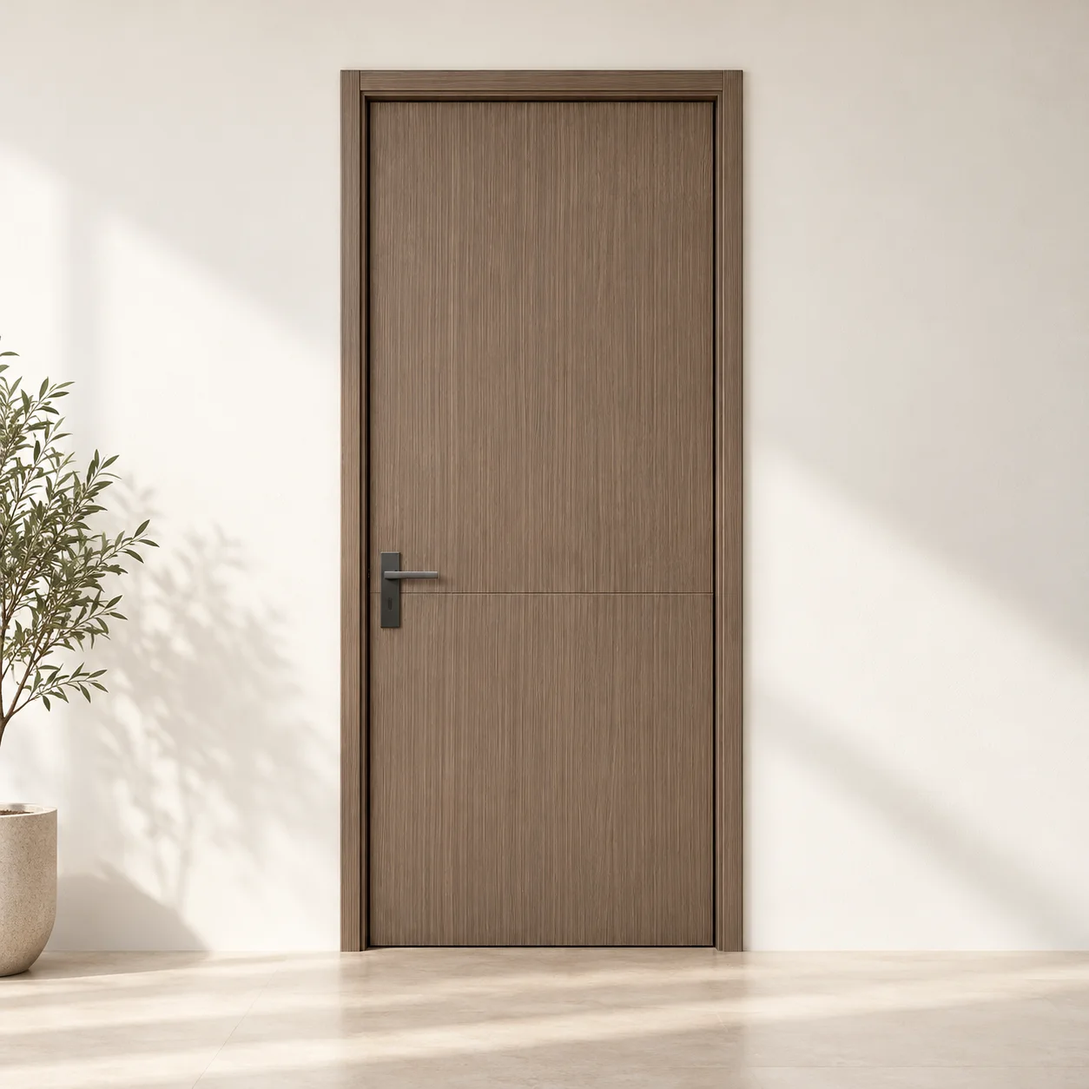
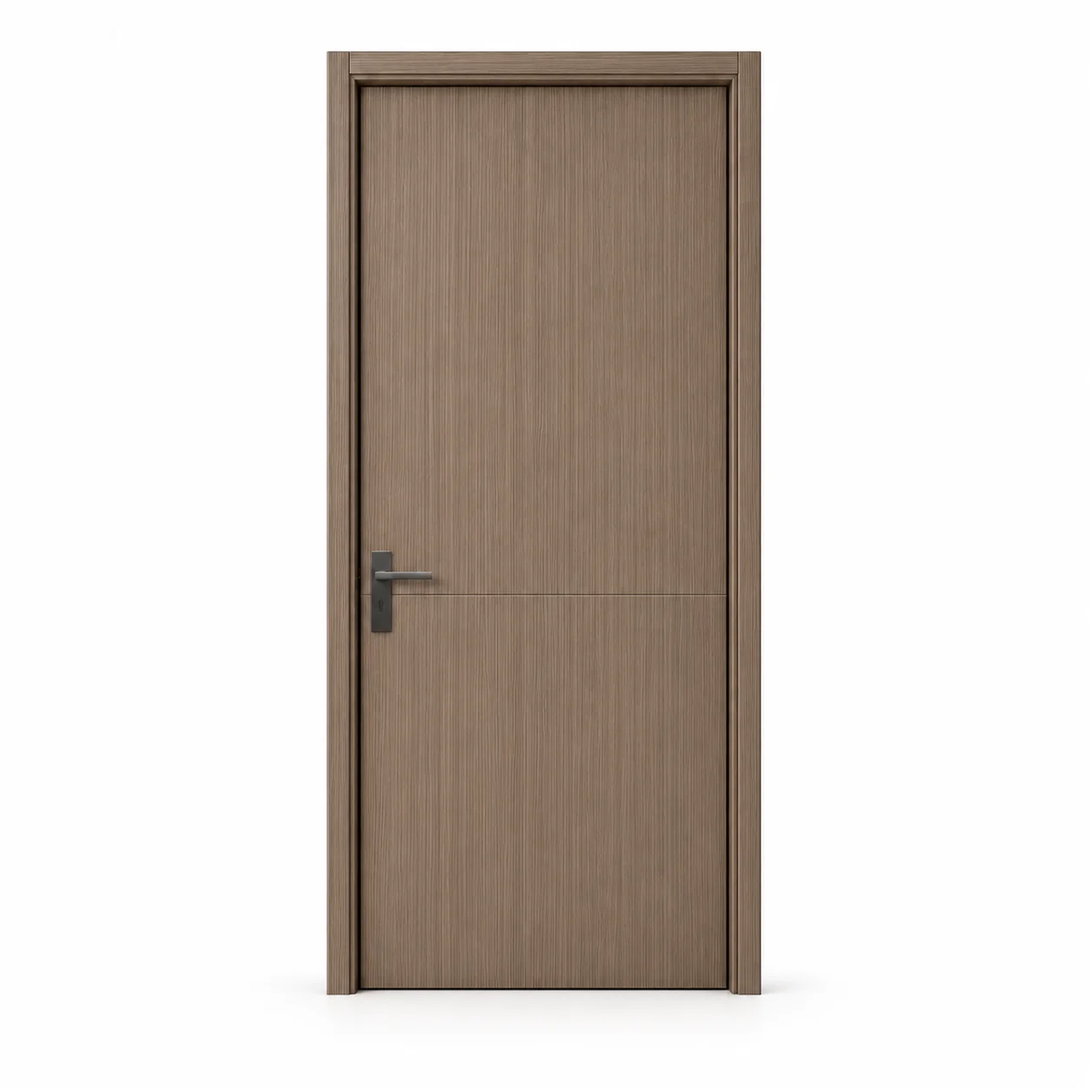
Show distinct full-door views without cropping WPC thumbnails (#124)

diff --git a/products/wpc-doors/taupe-woodgrain-wpc-interior-door.html b/products/wpc-doors/taupe-woodgrain-wpc-interior-door.html
@@ -1,10 +1,10 @@
 <!doctype html>
-<html lang="en"><head><meta charset="utf-8"><meta name="viewport" content="width=device-width,initial-scale=1"><title>Taupe Woodgrain WPC Door for Modern Residential and Hotel Interiors</title><meta name="description" content="Explore a taupe woodgrain WPC door with a plain flush face. US$45–98 per set including frame, FOB Tianjin, China. Request a project quotation from VISFURN."><meta name="robots" content="index,follow,max-image-preview:large"><link rel="canonical" href="https://www.visfurn.com/products/wpc-doors/taupe-woodgrain-wpc-interior-door"><meta property="og:type" content="product"><meta property="og:site_name" content="VISFURN"><meta property="og:title" content="Taupe Woodgrain WPC Door for Modern Residential and Hotel Interiors"><meta property="og:description" content="Explore a taupe woodgrain WPC door with a plain flush face. US$45–98 per set including frame, FOB Tianjin, China. Request a project quotation from VISFURN."><meta property="og:url" content="https://www.visfurn.com/products/wpc-doors/taupe-woodgrain-wpc-interior-door"><meta property="og:image" content="https://www.visfurn.com/assets/images/products/wpc-doors/taupe-woodgrain/main-01.webp"><meta name="twitter:card" content="summary_large_image"><link rel="icon" href="/assets/brand/favicon-door-v2-64.png"><style>*{box-sizing:border-box}html{scroll-behavior:smooth;scroll-padding-top:24px}body{margin:0;color:#28382f;background:#fff;font:16px/1.65 Arial,sans-serif}a{color:inherit}button{font:inherit}img{display:block;max-width:100%}.wrap{width:min(1240px,calc(100% - 64px));margin:auto}.trust{background:#263d30;color:#fff;text-align:center;padding:7px 16px;font-size:12px;letter-spacing:.05em}.header{border-bottom:1px solid #dce0da}.header .wrap{display:flex;align-items:center;justify-content:space-between;gap:24px;min-height:94px}.logo{width:106px;height:auto}.header nav{display:flex;gap:28px;font-size:14px}.header nav a{text-decoration:none}.btn{display:inline-flex;justify-content:center;align-items:center;min-height:48px;padding:12px 24px;background:#2c4936;border:1px solid #2c4936;color:white;text-decoration:none;font-size:14px;font-weight:700;border-radius:4px}.btn.secondary{color:#2c4936;background:white}.crumb{font-size:12px;color:#657267;padding:25px 0}.hero{display:grid;grid-template-columns:1.06fr 1fr;gap:56px;align-items:start;padding:12px 0 64px}.stage{border-radius:8px;background:#eeece7;overflow:hidden;aspect-ratio:4/5}.stage img{width:100%;height:100%;object-fit:contain}.thumbs{display:flex;gap:12px;margin-top:14px}.thumb{width:82px;height:84px;padding:4px;background:#fff;border:1px solid #dce0da;border-radius:4px;cursor:pointer}.thumb[aria-pressed=true]{border:2px solid #2c4936}.thumb img{width:100%;height:100%;object-fit:cover}.caption{font-size:12px;color:#697269;line-height:1.5}.eyebrow{font-size:11px;color:#906749;text-transform:uppercase;letter-spacing:.14em;font-weight:700;margin:0 0 10px}h1,h2{font-family:Georgia,serif;font-weight:400;line-height:1.12;letter-spacing:-.025em}h1{font-size:clamp(34px,3.4vw,48px);margin:0 0 20px}h2{font-size:clamp(28px,3vw,40px);margin:0 0 20px}h3{font-size:18px;line-height:1.4;margin:0 0 12px}.lede{font-size:17px;color:#657267}.tags{display:flex;gap:8px;flex-wrap:wrap;margin:22px 0}.tags span{font-size:12px;padding:5px 10px;border-radius:30px;border:1px solid #dce0da}.summary{background:#f5f5ef;padding:20px;border-left:3px solid #a98c68;font-size:14px}.summary p{margin:8px 0 0}.actions{display:flex;flex-wrap:wrap;gap:12px;margin:22px 0}.facts{padding-left:18px;font-size:14px;color:#657267}.jump{display:flex;gap:24px;flex-wrap:wrap;border-block:1px solid #dce0da;padding:16px 0;font-size:13px}.jump a{text-decoration:none}.section{padding:64px 0;border-bottom:1px solid #dce0da}.intro{max-width:850px;color:#657267}.cards{display:grid;grid-template-columns:repeat(3,1fr);gap:20px;margin-top:28px}.card{padding:24px;background:#f5f5ef;border:1px solid #e2e4db;border-radius:5px}.card p{font-size:14px;color:#657267;margin-bottom:0}.specs{display:grid;grid-template-columns:1fr 1fr;gap:0 36px}.specs div{display:grid;grid-template-columns:120px 1fr;gap:14px;padding:17px 0;border-bottom:1px solid #dce0da;font-size:14px}.specs dt{font-weight:700}.specs dd{margin:0;color:#657267}.split{display:grid;grid-template-columns:1fr 1fr;gap:38px;align-items:center}.split img{border-radius:6px;width:100%;height:auto}.split p,.split li{color:#657267}.split+.split{margin-top:46px}.note{padding:16px 20px;background:#f5f5ef;color:#657267;font-size:13px;margin-top:24px}.faq details{padding:18px 0;border-bottom:1px solid #dce0da}.faq summary{cursor:pointer;font-weight:700}.faq details p{max-width:900px;color:#657267;font-size:15px}.quote-panel{margin:56px 0;background:#263d30;color:#fff;padding:36px;border-radius:6px}.quote-panel p{max-width:850px;color:#e3e8e0}.quote-panel .btn{background:#fff;color:#263d30;border-color:#fff}.quote-panel .secondary{background:transparent;color:#fff}.related{display:flex;gap:22px;flex-wrap:wrap;font-size:14px;padding-bottom:50px}.footer{background:#f5f5ef;padding:30px 0;font-size:13px;color:#657267}.footer .wrap{display:flex;gap:20px;justify-content:space-between;flex-wrap:wrap}a:focus-visible,button:focus-visible,summary:focus-visible{outline:3px solid #b78348;outline-offset:4px}@media(max-width:900px){.wrap{width:calc(100% - 36px)}.hero{gap:28px}.header nav{gap:16px}.cards{gap:12px}.card{padding:18px}}@media(max-width:700px){.header .wrap{min-height:76px;gap:12px}.logo{width:84px}.header nav{display:none}.header .btn{padding:10px 14px;min-height:44px}.hero{grid-template-columns:1fr;gap:26px;padding-bottom:36px}.stage{max-height:520px;aspect-ratio:4/5}.gallery{max-width:420px;width:100%;margin:auto}h1{font-size:36px}.section{padding:40px 0}.cards,.specs,.split{grid-template-columns:1fr}.split{gap:22px}.quote-panel{padding:24px;margin:36px 0}.jump{gap:18px}.trust{font-size:10px}.btn{min-height:46px}.specs div{grid-template-columns:102px 1fr}.related{gap:16px}.caption{font-size:12px}}@media(prefers-reduced-motion:reduce){html{scroll-behavior:auto}}
-.price{font-size:30px;line-height:1.25;margin:8px 0;color:#28382f}.price small{font-size:15px;font-weight:400}.thumbs{display:grid;grid-template-columns:repeat(4,1fr)}.thumb{width:100%;height:90px}.stage{aspect-ratio:1/1}.stage img{object-fit:contain}.caption{min-height:18px}.detail-media{aspect-ratio:4/3;object-fit:cover}.related-grid{display:grid;grid-template-columns:repeat(3,1fr);gap:20px}.related-grid a{display:block;font-weight:bold;margin-top:12px}@media(max-width:700px){.stage{aspect-ratio:1/1}.related-grid{grid-template-columns:1fr}.thumb{height:76px}.price{font-size:28px}}</style><script type="application/ld+json">{"@context": "https://schema.org", "@type": "Product", "@id": "https://www.visfurn.com/products/wpc-doors/taupe-woodgrain-wpc-interior-door#product", "name": "Taupe Woodgrain WPC Door for Modern Residential and Hotel Interiors", "description": "Explore a taupe woodgrain WPC door with a plain flush face. US$45–98 per set including frame, FOB Tianjin, China. Request a project quotation from VISFURN.", "url": "https://www.visfurn.com/products/wpc-doors/taupe-woodgrain-wpc-interior-door", "brand": {"@type": "Brand", "name": "VISFURN"}, "manufacturer": {"@type": "Organization", "name": "Tianjin Visfurn Furniture Co., Ltd."}, "category": "WPC interior doors", "material": "Wood-plastic composite (WPC)", "image": ["https://www.visfurn.com/assets/images/products/wpc-doors/taupe-woodgrain/main-01.webp", "https://www.visfurn.com/assets/images/products/wpc-doors/taupe-woodgrain/main-02.webp", "https://www.visfurn.com/assets/images/products/wpc-doors/taupe-woodgrain/main-03.webp", "https://www.visfurn.com/assets/images/products/wpc-doors/taupe-woodgrain/main-04.webp"], "additionalProperty": [{"@type": "PropertyValue", "name": "Finish direction", "value": "Taupe woodgrain, fine vertical grain, plain flush face"}, {"@type": "PropertyValue", "name": "Reference price and scope", "value": "US$45–98 per set including frame; FOB Tianjin Port, China. Final configuration and hardware scope confirmed in quotation."}]}</script>
+<html lang="en"><head><meta charset="utf-8"><meta name="viewport" content="width=device-width,initial-scale=1"><title>Taupe Woodgrain WPC Door for Modern Residential and Hotel Interiors</title><meta name="description" content="Explore a taupe woodgrain WPC door with a plain flush face. US$45–98 per set including frame, FOB Tianjin, China. Request a project quotation from VISFURN."><meta name="robots" content="index,follow,max-image-preview:large"><link rel="canonical" href="https://www.visfurn.com/products/wpc-doors/taupe-woodgrain-wpc-interior-door"><meta property="og:type" content="product"><meta property="og:site_name" content="VISFURN"><meta property="og:title" content="Taupe Woodgrain WPC Door for Modern Residential and Hotel Interiors"><meta property="og:description" content="Explore a taupe woodgrain WPC door with a plain flush face. US$45–98 per set including frame, FOB Tianjin, China. Request a project quotation from VISFURN."><meta property="og:url" content="https://www.visfurn.com/products/wpc-doors/taupe-woodgrain-wpc-interior-door"><meta property="og:image" content="https://www.visfurn.com/assets/images/products/wpc-doors/taupe-woodgrain/main-01.webp"><meta name="twitter:card" content="summary_large_image"><link rel="icon" href="/assets/brand/favicon-door-v2-64.png"><style>*{box-sizing:border-box}html{scroll-behavior:smooth;scroll-padding-top:24px}body{margin:0;color:#28382f;background:#fff;font:16px/1.65 Arial,sans-serif}a{color:inherit}button{font:inherit}img{display:block;max-width:100%}.wrap{width:min(1240px,calc(100% - 64px));margin:auto}.trust{background:#263d30;color:#fff;text-align:center;padding:7px 16px;font-size:12px;letter-spacing:.05em}.header{border-bottom:1px solid #dce0da}.header .wrap{display:flex;align-items:center;justify-content:space-between;gap:24px;min-height:94px}.logo{width:106px;height:auto}.header nav{display:flex;gap:28px;font-size:14px}.header nav a{text-decoration:none}.btn{display:inline-flex;justify-content:center;align-items:center;min-height:48px;padding:12px 24px;background:#2c4936;border:1px solid #2c4936;color:white;text-decoration:none;font-size:14px;font-weight:700;border-radius:4px}.btn.secondary{color:#2c4936;background:white}.crumb{font-size:12px;color:#657267;padding:25px 0}.hero{display:grid;grid-template-columns:1.06fr 1fr;gap:56px;align-items:start;padding:12px 0 64px}.stage{border-radius:8px;background:#eeece7;overflow:hidden;aspect-ratio:4/5}.stage img{width:100%;height:100%;object-fit:contain}.thumbs{display:flex;gap:12px;margin-top:14px}.thumb{width:82px;height:84px;padding:4px;background:#fff;border:1px solid #dce0da;border-radius:4px;cursor:pointer}.thumb[aria-pressed=true]{border:2px solid #2c4936}.thumb img{width:100%;height:100%;object-fit:contain}.caption{font-size:12px;color:#697269;line-height:1.5}.eyebrow{font-size:11px;color:#906749;text-transform:uppercase;letter-spacing:.14em;font-weight:700;margin:0 0 10px}h1,h2{font-family:Georgia,serif;font-weight:400;line-height:1.12;letter-spacing:-.025em}h1{font-size:clamp(34px,3.4vw,48px);margin:0 0 20px}h2{font-size:clamp(28px,3vw,40px);margin:0 0 20px}h3{font-size:18px;line-height:1.4;margin:0 0 12px}.lede{font-size:17px;color:#657267}.tags{display:flex;gap:8px;flex-wrap:wrap;margin:22px 0}.tags span{font-size:12px;padding:5px 10px;border-radius:30px;border:1px solid #dce0da}.summary{background:#f5f5ef;padding:20px;border-left:3px solid #a98c68;font-size:14px}.summary p{margin:8px 0 0}.actions{display:flex;flex-wrap:wrap;gap:12px;margin:22px 0}.facts{padding-left:18px;font-size:14px;color:#657267}.jump{display:flex;gap:24px;flex-wrap:wrap;border-block:1px solid #dce0da;padding:16px 0;font-size:13px}.jump a{text-decoration:none}.section{padding:64px 0;border-bottom:1px solid #dce0da}.intro{max-width:850px;color:#657267}.cards{display:grid;grid-template-columns:repeat(3,1fr);gap:20px;margin-top:28px}.card{padding:24px;background:#f5f5ef;border:1px solid #e2e4db;border-radius:5px}.card p{font-size:14px;color:#657267;margin-bottom:0}.specs{display:grid;grid-template-columns:1fr 1fr;gap:0 36px}.specs div{display:grid;grid-template-columns:120px 1fr;gap:14px;padding:17px 0;border-bottom:1px solid #dce0da;font-size:14px}.specs dt{font-weight:700}.specs dd{margin:0;color:#657267}.split{display:grid;grid-template-columns:1fr 1fr;gap:38px;align-items:center}.split img{border-radius:6px;width:100%;height:auto}.split p,.split li{color:#657267}.split+.split{margin-top:46px}.note{padding:16px 20px;background:#f5f5ef;color:#657267;font-size:13px;margin-top:24px}.faq details{padding:18px 0;border-bottom:1px solid #dce0da}.faq summary{cursor:pointer;font-weight:700}.faq details p{max-width:900px;color:#657267;font-size:15px}.quote-panel{margin:56px 0;background:#263d30;color:#fff;padding:36px;border-radius:6px}.quote-panel p{max-width:850px;color:#e3e8e0}.quote-panel .btn{background:#fff;color:#263d30;border-color:#fff}.quote-panel .secondary{background:transparent;color:#fff}.related{display:flex;gap:22px;flex-wrap:wrap;font-size:14px;padding-bottom:50px}.footer{background:#f5f5ef;padding:30px 0;font-size:13px;color:#657267}.footer .wrap{display:flex;gap:20px;justify-content:space-between;flex-wrap:wrap}a:focus-visible,button:focus-visible,summary:focus-visible{outline:3px solid #b78348;outline-offset:4px}@media(max-width:900px){.wrap{width:calc(100% - 36px)}.hero{gap:28px}.header nav{gap:16px}.cards{gap:12px}.card{padding:18px}}@media(max-width:700px){.header .wrap{min-height:76px;gap:12px}.logo{width:84px}.header nav{display:none}.header .btn{padding:10px 14px;min-height:44px}.hero{grid-template-columns:1fr;gap:26px;padding-bottom:36px}.stage{max-height:520px;aspect-ratio:4/5}.gallery{max-width:420px;width:100%;margin:auto}h1{font-size:36px}.section{padding:40px 0}.cards,.specs,.split{grid-template-columns:1fr}.split{gap:22px}.quote-panel{padding:24px;margin:36px 0}.jump{gap:18px}.trust{font-size:10px}.btn{min-height:46px}.specs div{grid-template-columns:102px 1fr}.related{gap:16px}.caption{font-size:12px}}@media(prefers-reduced-motion:reduce){html{scroll-behavior:auto}}
+.price{font-size:30px;line-height:1.25;margin:8px 0;color:#28382f}.price small{font-size:15px;font-weight:400}.thumbs{display:grid;grid-template-columns:repeat(4,1fr)}.thumb{width:100%;height:auto;aspect-ratio:1/1;padding:5px;background:#f4f2ed;overflow:hidden}.stage{aspect-ratio:1/1}.stage img{object-fit:contain}.caption{min-height:18px}.detail-media{aspect-ratio:4/3;object-fit:cover}.related-grid{display:grid;grid-template-columns:repeat(3,1fr);gap:20px}.related-grid a{display:block;font-weight:bold;margin-top:12px}@media(max-width:700px){.stage{aspect-ratio:1/1}.related-grid{grid-template-columns:1fr}.thumb{height:auto;min-width:0;padding:3px}.price{font-size:28px}}</style><script type="application/ld+json">{"@context": "https://schema.org", "@type": "Product", "@id": "https://www.visfurn.com/products/wpc-doors/taupe-woodgrain-wpc-interior-door#product", "name": "Taupe Woodgrain WPC Door for Modern Residential and Hotel Interiors", "description": "Explore a taupe woodgrain WPC door with a plain flush face. US$45–98 per set including frame, FOB Tianjin, China. Request a project quotation from VISFURN.", "url": "https://www.visfurn.com/products/wpc-doors/taupe-woodgrain-wpc-interior-door", "brand": {"@type": "Brand", "name": "VISFURN"}, "manufacturer": {"@type": "Organization", "name": "Tianjin Visfurn Furniture Co., Ltd."}, "category": "WPC interior doors", "material": "Wood-plastic composite (WPC)", "image": ["https://www.visfurn.com/assets/images/products/wpc-doors/taupe-woodgrain/main-01.webp", "https://www.visfurn.com/assets/images/products/wpc-doors/taupe-woodgrain/main-02.webp", "https://www.visfurn.com/assets/images/products/wpc-doors/taupe-woodgrain/main-03.webp", "https://www.visfurn.com/assets/images/products/wpc-doors/taupe-woodgrain/main-04.webp"], "additionalProperty": [{"@type": "PropertyValue", "name": "Finish direction", "value": "Taupe woodgrain, fine vertical grain, plain flush face"}, {"@type": "PropertyValue", "name": "Reference price and scope", "value": "US$45–98 per set including frame; FOB Tianjin Port, China. Final configuration and hardware scope confirmed in quotation."}]}</script>
 <script type="application/ld+json">{"@context": "https://schema.org", "@type": "BreadcrumbList", "itemListElement": [{"@type": "ListItem", "position": 1, "name": "Home", "item": "https://www.visfurn.com/"}, {"@type": "ListItem", "position": 2, "name": "WPC Doors", "item": "https://www.visfurn.com/products/wpc-doors"}, {"@type": "ListItem", "position": 3, "name": "Taupe Woodgrain WPC Door", "item": "https://www.visfurn.com/products/wpc-doors/taupe-woodgrain-wpc-interior-door"}]}</script>
 <script type="application/ld+json">{"@context": "https://schema.org", "@type": "FAQPage", "mainEntity": [{"@type": "Question", "name": "What is included in the US$45–98 price range?", "acceptedAnswer": {"@type": "Answer", "text": "The reference price is US$45–98 per set including the door frame, FOB Tianjin Port, China. Final price depends on the agreed configuration and quantity. Confirm the exact frame profile, trim, hardware and packing in the written quotation; hardware inclusion is not assumed."}}, {"@type": "Question", "name": "How is this different from the other WPC door designs?", "acceptedAnswer": {"@type": "Answer", "text": "This finish-led option pairs a taupe woodgrain colour with fine vertical grain and a plain flush face. It is part of the WPC interior door range. The visual direction does not establish a different core construction or performance rating."}}, {"@type": "Question", "name": "Can I order the door in a specific size?", "acceptedAnswer": {"@type": "Answer", "text": "Send the door schedule with leaf or opening dimensions clearly identified, finished wall thickness, handing and quantity. VISFURN will confirm feasible dimensions, frame profiles and machining before the sample and order are approved."}}, {"@type": "Question", "name": "Can this door be used in a bathroom or humid room?", "acceptedAnswer": {"@type": "Answer", "text": "Ask for a room-specific suitability review. Describe humidity, splash exposure and cleaning conditions, and confirm the leaf, frame, edge treatment and threshold together. This page does not claim a tested waterproof rating."}}, {"@type": "Question", "name": "Is it suitable for a fire-rated hotel opening?", "acceptedAnswer": {"@type": "Answer", "text": "No fire or acoustic rating is stated for this design. If an opening requires tested performance, provide the standard and rating so a documented assembly can be reviewed separately."}}, {"@type": "Question", "name": "Are these photographs of a delivered project?", "acceptedAnswer": {"@type": "Answer", "text": "The images are AI-generated design illustrations of the proposed taupe finish direction, not factory photographs, test evidence or completed-project records. Approve the physical finish sample, drawings and supplied components before production."}}]}</script><script>(function(w,d,s,l,i){w[l]=w[l]||[];w[l].push({'gtm.start':new Date().getTime(),event:'gtm.js'});var f=d.getElementsByTagName(s)[0],j=d.createElement(s),dl=l!='dataLayer'?'&l='+l:'';j.async=true;j.src='https://www.googletagmanager.com/gtm.js?id='+i+dl;f.parentNode.insertBefore(j,f);})(window,document,'script','dataLayer','GTM-PD963ZR7');</script></head><body data-product-source-context><div class="trust">VISFURN · Interior door packages for contractors, distributors &amp; project buyers</div><header class="header"><div class="wrap"><a href="/" aria-label="VISFURN home"><img class="logo" src="/assets/brand/visfurn-logo-door-v2-360.webp" width="106" height="79" alt="VISFURN"></a><nav aria-label="Main navigation"><a href="/products">Products</a><a href="/products/wpc-doors">WPC Doors</a><a href="/about">About</a><a href="/contact">Contact</a></nav><a class="btn" data-action="quote" href="/contact?product=taupe-woodgrain-wpc-interior-door&amp;product_page=%2Fproducts%2Fwpc-doors%2Ftaupe-woodgrain-wpc-interior-door&amp;source_page=%2Fproducts%2Fwpc-doors%2Ftaupe-woodgrain-wpc-interior-door#quote-form">Request a Quote</a></div></header>
 <main class="wrap"><nav class="crumb" aria-label="Breadcrumb"><a href="/">Home</a> / <a href="/products/wpc-doors">WPC Doors</a> / Taupe Woodgrain WPC Door</nav>
-<section class="hero"><div class="gallery"><div class="stage"><img id="product-image" src="/assets/images/products/wpc-doors/taupe-woodgrain/main-01.webp" width="1254" height="1254" fetchpriority="high" alt="Taupe woodgrain WPC door with a plain flush face and matching frame"></div><div class="thumbs" aria-label="Product image gallery"><button class="thumb" type="button" aria-label="Show front elevation" aria-pressed="true" data-image="/assets/images/products/wpc-doors/taupe-woodgrain/main-01.webp" data-alt="Taupe woodgrain WPC door with a plain flush face and matching frame" data-caption="Front elevation"><img class="" src="/assets/images/products/wpc-doors/taupe-woodgrain/main-01.webp" width="1254" height="1254" loading="lazy" decoding="async" alt="Taupe woodgrain WPC door with a plain flush face and matching frame"></button><button class="thumb" type="button" aria-label="Show three-quarter view" aria-pressed="false" data-image="/assets/images/products/wpc-doors/taupe-woodgrain/main-02.webp" data-alt="Angled view of the taupe vertical-grain WPC door and frame" data-caption="Three-quarter view"><img class="" src="/assets/images/products/wpc-doors/taupe-woodgrain/main-02.webp" width="1254" height="1254" loading="lazy" decoding="async" alt="Angled view of the taupe vertical-grain WPC door and frame"></button><button class="thumb" type="button" aria-label="Show residential setting" aria-pressed="false" data-image="/assets/images/products/wpc-doors/taupe-woodgrain/main-03.webp" data-alt="Taupe flush WPC door design in a residential interior" data-caption="Residential setting"><img class="" src="/assets/images/products/wpc-doors/taupe-woodgrain/main-03.webp" width="1254" height="1254" loading="lazy" decoding="async" alt="Taupe flush WPC door design in a residential interior"></button><button class="thumb" type="button" aria-label="Show hotel interior setting" aria-pressed="false" data-image="/assets/images/products/wpc-doors/taupe-woodgrain/main-04.webp" data-alt="Taupe woodgrain WPC door design in a hotel interior" data-caption="Hotel interior setting"><img class="" src="/assets/images/products/wpc-doors/taupe-woodgrain/main-04.webp" width="1254" height="1254" loading="lazy" decoding="async" alt="Taupe woodgrain WPC door design in a hotel interior"></button></div><p class="caption" id="image-caption" aria-live="polite">Front elevation</p><p class="caption">AI-generated design illustrations. Confirm the actual finish, construction and hardware with an approved sample.</p></div>
+<section class="hero"><div class="gallery"><div class="stage"><img id="product-image" src="/assets/images/products/wpc-doors/taupe-woodgrain/main-01.webp" width="1254" height="1254" fetchpriority="high" alt="Full taupe woodgrain WPC door and frame in a clean white studio"></div><div class="thumbs" aria-label="Product image gallery"><button class="thumb" type="button" aria-label="Show studio front elevation" aria-pressed="true" data-image="/assets/images/products/wpc-doors/taupe-woodgrain/main-01.webp" data-alt="Full taupe woodgrain WPC door and frame in a clean white studio" data-caption="Studio front elevation"><img class="" src="/assets/images/products/wpc-doors/taupe-woodgrain/main-01.webp" width="1254" height="1254" loading="lazy" decoding="async" alt="Full taupe woodgrain WPC door and frame in a clean white studio"></button><button class="thumb" type="button" aria-label="Show angled gray-wall view" aria-pressed="false" data-image="/assets/images/products/wpc-doors/taupe-woodgrain/main-02.webp" data-alt="Complete taupe WPC door and frame at a clear angle against a cool gray wall" data-caption="Angled gray-wall view"><img class="" src="/assets/images/products/wpc-doors/taupe-woodgrain/main-02.webp" width="1254" height="1254" loading="lazy" decoding="async" alt="Complete taupe WPC door and frame at a clear angle against a cool gray wall"></button><button class="thumb" type="button" aria-label="Show charcoal hotel setting" aria-pressed="false" data-image="/assets/images/products/wpc-doors/taupe-woodgrain/main-03.webp" data-alt="Full taupe WPC door and frame in a charcoal hotel interior" data-caption="Charcoal hotel setting"><img class="" src="/assets/images/products/wpc-doors/taupe-woodgrain/main-03.webp" width="1254" height="1254" loading="lazy" decoding="async" alt="Full taupe WPC door and frame in a charcoal hotel interior"></button><button class="thumb" type="button" aria-label="Show sage residential setting" aria-pressed="false" data-image="/assets/images/products/wpc-doors/taupe-woodgrain/main-04.webp" data-alt="Complete taupe WPC door and frame from the opposite angle in a sage residential interior" data-caption="Sage residential setting"><img class="" src="/assets/images/products/wpc-doors/taupe-woodgrain/main-04.webp" width="1254" height="1254" loading="lazy" decoding="async" alt="Complete taupe WPC door and frame from the opposite angle in a sage residential interior"></button></div><p class="caption" id="image-caption" aria-live="polite">Studio front elevation</p><p class="caption">AI-generated design illustrations. Confirm the actual finish, construction and hardware with an approved sample.</p></div>
 <div><p class="eyebrow">VISFURN / Taupe woodgrain collection</p><h1>Taupe Woodgrain WPC Door for Modern Residential and Hotel Interiors</h1><p class="lede">A quiet taupe palette, fine vertical grain and a plain flush face. Coordinate the door and frame with neutral residential rooms and contemporary hotel interiors.</p><div class="tags"><span>Plain flush face</span><span>Vertical woodgrain</span><span>Frame included</span></div><div class="summary"><p class="eyebrow">FOB reference price</p><p class="price"><strong>US$45–98</strong> <small>/ set</small></p><p><strong>Including door frame · FOB Tianjin Port, China</strong></p><p>Final price depends on the agreed configuration and quantity. Hardware, trim and packing scope are confirmed in the project quotation.</p></div><div class="actions"><a class="btn" data-action="quote" href="/contact?product=taupe-woodgrain-wpc-interior-door&amp;product_page=%2Fproducts%2Fwpc-doors%2Ftaupe-woodgrain-wpc-interior-door&amp;source_page=%2Fproducts%2Fwpc-doors%2Ftaupe-woodgrain-wpc-interior-door#quote-form">Request Product Quotation</a><a class="btn secondary" data-action="whatsapp" href="https://wa.me/8615222885400?text=Hello%20VISFURN%2C%20please%20quote%20the%20Taupe%20Woodgrain%20WPC%20Door%2C%20US%2445%E2%80%9398/set%20including%20frame%2C%20FOB%20Tianjin%2C%20China.%20Please%20confirm%20hardware%20and%20final%20specification.%20https%3A//www.visfurn.com/products/wpc-doors/taupe-woodgrain-wpc-interior-door" target="_blank" rel="noopener noreferrer">WhatsApp</a></div><ul class="facts"><li>Send quantities, sizes, wall thickness and destination.</li><li>Approve the colour and grain against a physical sample.</li><li>Confirm leaf construction, frame profile and hardware before ordering.</li></ul><a href="mailto:rose@visfurn.com?subject=Taupe%20Woodgrain%20WPC%20Door%20Inquiry" data-action="email">rose@visfurn.com</a></div></section>
 <nav class="jump" aria-label="Product sections"><a href="#overview">Overview</a><a href="#specification">Specifications</a><a href="#details">Design details</a><a href="#ordering">Ordering</a><a href="#faq">FAQ</a></nav>
 <section class="section" id="overview"><p class="eyebrow">A restrained finish direction</p><h2>A warm-neutral door for a coherent interior palette.</h2><p class="intro">The taupe woodgrain design offers a softer visual transition between light walls, stone-look flooring and timber furniture. Its fine vertical grain gives the plain face texture with a restrained face design. This is a finish and design selection within the VISFURN WPC interior door range.</p><div class="cards"><article class="card"><h3>Residential rooms</h3><p>Use one approved taupe finish across bedroom and interior-room door marks. Review the sample beside flooring, skirting and wall colours under the intended lighting.</p></article><article class="card"><h3>Hotel interiors</h3><p>Coordinate the face, frame and handle finish with the room palette. Identify any openings requiring documented fire or acoustic performance separately.</p></article><article class="card"><h3>Repeated project openings</h3><p>Group sizes, handing and frame depths by door mark. Approve grain direction and colour tolerance before placing a coordinated order.</p></article></div></section>
